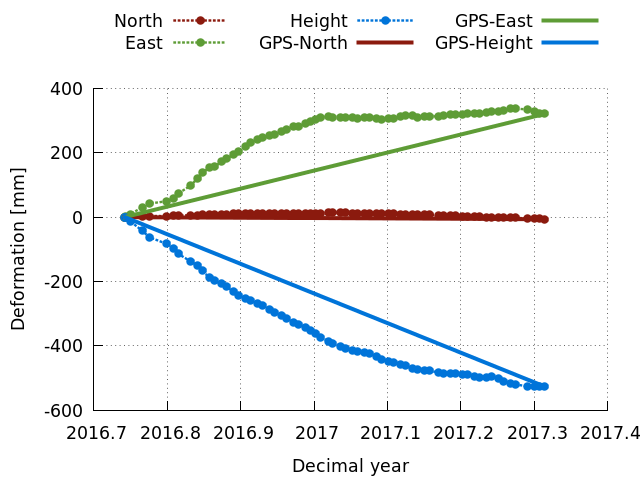
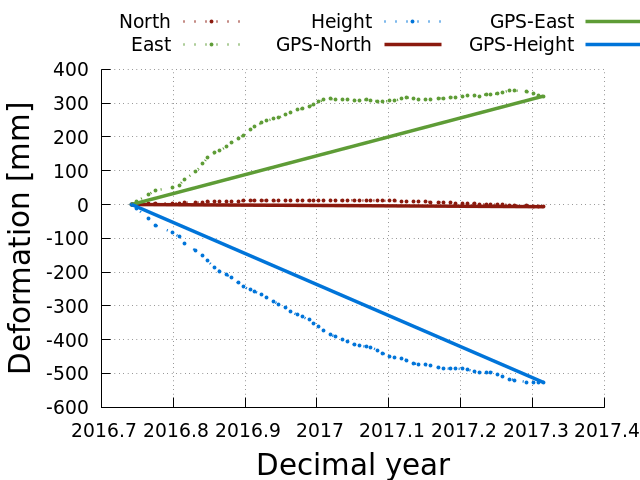
Mods

Changed region(s): [[0.0, 0.125, 1.0, 1.0], [0.4062, 0.0312, 1.0, 0.125], [0.1562, 0.0312, 0.3438, 0.125]]

diff --git a/komplex/bozsoi_insar.tex b/komplex/bozsoi_insar.tex
@@ -23,10 +23,10 @@
 }
 
 
-\title[Komplex viszga, ELTE 2019]{Műholdradar interferometria és GNSS mérések
-                                  kombinálása 3D-s deformációs terek meghatározására}
+\title[Komplex viszga, ELTE]{Műholdradar interferometria és GNSS mérések
+                             kombinálása 3D-s deformációs terek meghatározására}
 \author[Bozsó István]{Bozsó István}
-\institute[MTA CSFK GGI]{MTA CSFK Geodéziai és Geofizikai Intézet}
+\institute[MTA CSFK GGI]{MTA CSFK Geodéziai és Geofizikai Intézet; ELTE Földtudományi Doktori Iskola}
 \date{2019.05.30.}
 
 \input{../aux/common.tex}
@@ -43,6 +43,9 @@
         \begin{minipage}[c]{0.3\textwidth}
             \includegraphics[width=0.75\textwidth]{ggi_logo.png}
         \end{minipage}
+        \begin{minipage}[c]{0.3\textwidth}
+            \includegraphics[width=0.75\textwidth]{elte_logo.png}
+        \end{minipage}
     \end{center}
 \end{frame}
 
@@ -53,13 +56,14 @@
     \item szintetikus apertúrájú radar - mikrohullám tartományban működő
     távérzékelési rendszer (műhold, repülő, drone)
     \item felszíni deformációk nagyfelbontású térképezése
-    \item fedetlen felszínen potenciálisan végtelen reflektáló pont
+    \item fedetlen felszínen potenciálisan több 1000, több 100 000 reflektáló pont
     \item relatív módszer, térben, időben
     \item felszíni deformáció mérés hibája ideális esetben $< \text{mm}$,
     gyakorlatban általában elmondható $< \text{cm}$
-    \item tektinikus, eróziós, folyamatok; antropogén tevékenység okozta
+    \item tektonikus, eróziós folyamatok; emberi tevékenység okozta
     deformációk térképezése, monitorozása
-    \item kritikus infrastruktúra megfigyelése ()
+    \item kritikus infrastruktúra megfigyelése (gátak, veszélyes hulladék
+    tározók)
     \item geodinamikai szempontból felbecsükhetetlen jelentőség, komplex
     dinamikai mintázattal rendelkező területek hosszútávú megfigyelése
     \item ESA műholdas földmegfigyelési programjában kiemelt szerep
@@ -89,21 +93,25 @@
 
 \begin{frame}{Példa interferogramok}
 
-
-
-\begin{center}
-    \figu{hun_nkp1.png}{0.6}{Koherens, téli, interferogramok}
-    \figu{hun_nkp3.png}{0.6}{Inkoherens, nyári, interferogramok}
-\end{center}
+    \begin{center}
+        \figu{hun_nkp1.png}{0.9}{Koherens, téli, interferogramok}
+    \end{center}
 
 \end{frame}
 
+\begin{frame}{Példa interferogramok}
+
+    \begin{center}
+        \figu{hun_nkp3.png}{0.9}{Inkoherens, nyári, interferogramok}
+    \end{center}
+
+\end{frame}
 
 \begin{frame}{InSAR korlátai}
 
 \begin{table}
-\begin{tabular}{c | c | c}
-Sáv elnevezése & Frekvencia $[\text{GHz}]$ & Hullámhossz $[\text{cm}]$ \\ \hline
+\begin{tabular}{| c | c | c |} \hline
+Sáv elnevezése & Frekvencia $[\text{GHz}]$ & Hullámhossz $[\text{cm}]$ \\ \hline \hline
 X & 8.0 -- 12.0 & 3.75 -- 2.5 \\ \hline
 C & 4.0 -- 8.0 & 7.5 -- 3.75 \\ \hline
 L & 1.0 -- 2.0 & 30 -- 15 \\ \hline
@@ -136,7 +144,7 @@ L & 1.0 -- 2.0 & 30 -- 15 \\ \hline
     \item jelterjedés vizsgálata, atmoszférikus, ionoszférikus hatások
     \item GGI: ionoszonda - kísérleti üzem, kísérleti eredmények; hozzáférés
     globális ionoszonda hálózathoz
-    \item regionális alkalamzások - első eredmények (Kelet-Magyarország)
+    \item InSAR regionális alkalamzások - első eredmények (Kelet-Magyarország)
 \end{itemize}
 
 \end{frame}
@@ -147,7 +155,7 @@ L & 1.0 -- 2.0 & 30 -- 15 \\ \hline
 \begin{itemize}
     \item reflektorhálózatok, területek, ahol nincs vagy csak kevés
     koherens szórópont
-    \item Magyarországon: 3 sarokreflektor hálózat (Fonyód, Kulcs, Dunaszekcső)
+    \item Magyarországon: 3 + 1 sarokreflektor hálózat (Fonyód, Kulcs, Dunaszekcső, Sopron)
     \item Erdélyben: 2 sarokreflektor hálózat (Parajd, Csomád);
     1 tervezett (Vrancea-zóna)
     \item eltérő felszínmozgási folyamatok (földcsuszamlás, sótektonika,
@@ -166,10 +174,10 @@ L & 1.0 -- 2.0 & 30 -- 15 \\ \hline
           ikerreflektora, GNSS adapterrel}
 \end{center}
 
-
 \begin{itemize}
     \item több reflektor $\rightarrow$ reflektor hálózat
     \item elmozdulások egy kijelölt stabil referencia reflektorhoz képest
+    \item mm alatti pontosság elérhető
 \end{itemize}
 
 \end{frame}
@@ -214,28 +222,38 @@ L & 1.0 -- 2.0 & 30 -- 15 \\ \hline
 \begin{frame}{Magyarországi hálózatok}
 
 \begin{minipage}[c]{0.975\textwidth}
-    \begin{minipage}[c]{0.475\textwidth}
-        \includegraphics[width=\textwidth]{IB2-IB1_kalman.png}
+    \begin{minipage}[c]{0.47\textwidth}
+        \figu{IB2-IB1_kalman.pdf}{1.0}{Dunszakcső, IB2 - IB1}
     \end{minipage}
-    \begin{minipage}[c]{0.475\textwidth}
-        \includegraphics[width=\textwidth]{IB3-IB1_kalman.png}
+    \begin{minipage}[c]{0.47\textwidth}
+        \figu{A1-AR_kalman.pdf}{1.0}{Kulcs, A1 - AR}
+        %\includegraphics[width=\textwidth]{}
     \end{minipage}
 \end{minipage}
 \begin{minipage}[c]{0.975\textwidth}
-    \begin{minipage}[c]{0.475\textwidth}
-        \includegraphics[width=\textwidth]{IB4-IB1_kalman.png}
+    \begin{minipage}[c]{0.47\textwidth}
+        \figu{KV-PH_kalman.pdf}{1.0}{Fonyód, VK - PH}
+        %\includegraphics[width=\textwidth]{IB4-IB1_kalman.png}
     \end{minipage}
     \begin{minipage}[c]{0.475\textwidth}
-        Ide egy-egy ábra a három magyarországi hálózatról, különböző
-        deformációs idősorok, különböző jelenségek, egyes földcsuszamlások
-        epizodikus viselkedése, korreláltatni meteorológiával?
+        \begin{itemize}
+            \item különböző dinamika
+            \item korreláció meteorológiával?
+            \item epizodikus vislkedés
+        \end{itemize}
     \end{minipage}
 \end{minipage}
 \end{frame}
 
 
 \begin{frame}{Kelet-Magyarországi regionális vizsgálat első eredményei}
-\includegraphics[width=0.6\textwidth]{hun_nkp2.png}
+    \begin{minipage}[c]{0.675\textwidth}
+        \includegraphics[width=1.0\textwidth]{hun_nkp2.png}
+    \end{minipage}
+    \hspace{10pt}
+    \begin{minipage}[c]{0.25\textwidth}
+        3.5 éves Sentinel-1 adatsor, előzetes eredmények
+    \end{minipage}
 \end{frame}
 
 
@@ -257,6 +275,23 @@ L & 1.0 -- 2.0 & 30 -- 15 \\ \hline
     \bibliography{/home/istvan/Dokumentumok/texfiles/insar}
     \bibliographystyle{apalike}
 \end{frame}
+
+\begin{frame}
+    \begin{center}
+        \Huge \fcol
+        Köszönöm a figyelmet!
+    \end{center}
+    \vspace{25pt}
+    
+    \begin{center}
+        \Large \center Köszönettel tartozom:
+        
+        Szűcs Eszter, Lichtenberger János, Wesztergom Viktor, Bányai László
+    \end{center}
+    \vspace{10pt}
+
+\end{frame}
+
 
 
 \begin{frame}{Integrált Vízgőzmennyiség}

diff --git a/data/isign/plot_refl.py b/data/isign/plot_refl.py
@@ -34,7 +34,7 @@ def parse_kout(path):
 
 def style_kalman(colors):
     # InSAR
-    lw = 1
+    lw = 2.5
     tpl = "set style line {num} lc rgb '{color}' pt 7 ps 0.25 lt 0 lw {lw}"
     
     gp.call(tpl.format(num=1, color=colors["red"], lw=lw))
@@ -45,7 +45,7 @@ def style_kalman(colors):
     
     
     # GNSS
-    lw = 2
+    lw = 3.5
     tpl = "set style line {num} lc rgb '{color}' pt 0 ps 1 lt 1 lw {lw}"
     
     gp.call(tpl.format(num=4, color=colors["red"], lw=lw))
@@ -71,16 +71,14 @@ def plot(*stations, ref=None, rootdir=None, outdir=None, fontsize=15, term="eps"
     
     colors = gp.nicer()
     
-    gp.set("xlabel", "'Decimal year' font ',22'")
-    gp.set("key", keypos)
-    
+    gp.set(xlabel="'Decimal year' font ',22'", key=keypos)
     
     for station in stations:
         filename = pjoin(rootdir, "{}-{}_s_interpol.kout".format(station, ref))
         
         los, gnss = parse_kout(filename)
         
-        gp.set("ylabel", "'Deformation [mm]' font ',22'")
+        gp.set(ylabel="'Deformation [mm]' font ',22'")
         style_kalman(colors)
         
         with tmp("w", delete=False) as f1, tmp("w", delete=False) as f2:
@@ -88,7 +86,7 @@ def plot(*stations, ref=None, rootdir=None, outdir=None, fontsize=15, term="eps"
             f1.write(los)
             f2.write(gnss)
             
-            gp.output(pjoin(outdir, "%s-%s_kalman.ps" % (station, ref)),
+            gp.output(pjoin(outdir, "%s-%s_kalman.pdf" % (station, ref)),
                       term=term, fontsize=fontsize)
                       
             #gp.ranges(y=gnss_range)
@@ -101,25 +99,25 @@ def plot(*stations, ref=None, rootdir=None, outdir=None, fontsize=15, term="eps"
                     "     '{name2}' u 2:5 title 'GPS-Height'  with lp ls 6"
                     .format(name1=f1.name, name2=f2.name))
         
-        asc_g = pjoin(rootdir, "%s-%s_g_asc.los" % (station, ref))
-        dsc_g = pjoin(rootdir, "%s-%s_g_dsc.los" % (station, ref))
-        
-        asc_s = pjoin(rootdir, "{}-{}_s_asc.los".format(station, ref))
-        dsc_s = pjoin(rootdir, "{}-{}_s_dsc.los".format(station, ref))
+        #asc_g = pjoin(rootdir, "%s-%s_g_asc.los" % (station, ref))
+        #dsc_g = pjoin(rootdir, "%s-%s_g_dsc.los" % (station, ref))
+        #
+        #asc_s = pjoin(rootdir, "{}-{}_s_asc.los".format(station, ref))
+        #dsc_s = pjoin(rootdir, "{}-{}_s_dsc.los".format(station, ref))
 
-        gp.output(pjoin(outdir, "{}-{}_los.png".format(station, ref)),
-                  term=term, fontsize=fontsize)
+        #gp.output(pjoin(outdir, "{}-{}_los.png".format(station, ref)),
+        #          term=term, fontsize=fontsize)
         
-        style_los(gp, colors)
-        gp["ylabel"] = "'LOS deformation [mm]' font ',22'"
-        
-        #gp.ranges(y=los_range)
-        
-        gp("plot '{}' u 2:3 title 'ASC Gamma'  with lp ls 1,"
-           "     '{}' u 2:3 title 'ASC StaMPS' with lp ls 2,"
-           "     '{}' u 2:3 title 'DSC Gamma'  with lp ls 3,"
-           "     '{}' u 2:3 title 'DSC StaMPS' with lp ls 4"
-           .format(asc_g, asc_s, dsc_g, dsc_s))
+        #style_los(gp, colors)
+        #gp["ylabel"] = "'LOS deformation [mm]' font ',22'"
+        #
+        ##gp.ranges(y=los_range)
+        #
+        #gp("plot '{}' u 2:3 title 'ASC Gamma'  with lp ls 1,"
+        #   "     '{}' u 2:3 title 'ASC StaMPS' with lp ls 2,"
+        #   "     '{}' u 2:3 title 'DSC Gamma'  with lp ls 3,"
+        #   "     '{}' u 2:3 title 'DSC StaMPS' with lp ls 4"
+        #   .format(asc_g, asc_s, dsc_g, dsc_s))
 
 
 ticfont = 13
@@ -200,28 +198,35 @@ def main():
     
     #gp.debug()
     
-    fontsize = 14
+    fontsize = 16
     size = (1, 1)
     
     if 1:
         rootdir = root + "/dszekcso"
-        plot_kalman("IB2", "IB3", "IB4", ref="IB1", rootdir=rootdir, outdir=outdir,
-                    term=term, fontsize=fontsize, ranges=[-600,400], size=size,
-                    prefix="dszekcso", layout=(2,2), incr=200.0)
+        #plot_kalman("IB2", "IB3", "IB4", ref="IB1", rootdir=rootdir, outdir=outdir,
+        #            term=term, fontsize=fontsize, ranges=[-600,400], size=size,
+        #            prefix="dszekcso", layout=(2,2), incr=200.0)
+        plot("IB2", "IB3", "IB4", ref="IB1", rootdir=rootdir, outdir=outdir,
+             term=term, fontsize=fontsize, keypos="center top outside horizontal")
+
 
                 
     if 1:
         rootdir = root + "/fonyod"
-        plot_kalman("KV", "RE", ref="PH", rootdir=rootdir, outdir=outdir,
-                    term=term, fontsize=fontsize, size=size, incr=5.0,
-                    prefix="fonyod", layout=(2,2), ranges=[-10,10])
+        #plot_kalman("KV", "RE", ref="PH", rootdir=rootdir, outdir=outdir,
+        #            term=term, fontsize=fontsize, size=size, incr=5.0,
+        #            prefix="fonyod", layout=(2,2), ranges=[-10,10])
+        plot("KV", "RE", ref="PH", rootdir=rootdir, outdir=outdir,
+             term=term, fontsize=fontsize, keypos="center top outside horizontal")
 
     
     if 1:
         rootdir = root + "/kulcs"
-        plot_kalman("A1", "A2", "A3", ref="AR", rootdir=rootdir, outdir=outdir,
-                    term=term, fontsize=fontsize, prefix="kulcs", size=size,
-                    layout=(2,2), ranges=[-10,10], incr=12.5)
+        #plot_kalman("A1", "A2", "A3", ref="AR", rootdir=rootdir, outdir=outdir,
+        #            term=term, fontsize=fontsize, prefix="kulcs", size=size,
+        #            layout=(2,2), ranges=[-10,10], incr=12.5)
+        plot("A1", "A2", "A3", ref="AR", rootdir=rootdir, outdir=outdir,
+             term=term, fontsize=fontsize, keypos="center top outside horizontal")
          
 
 
